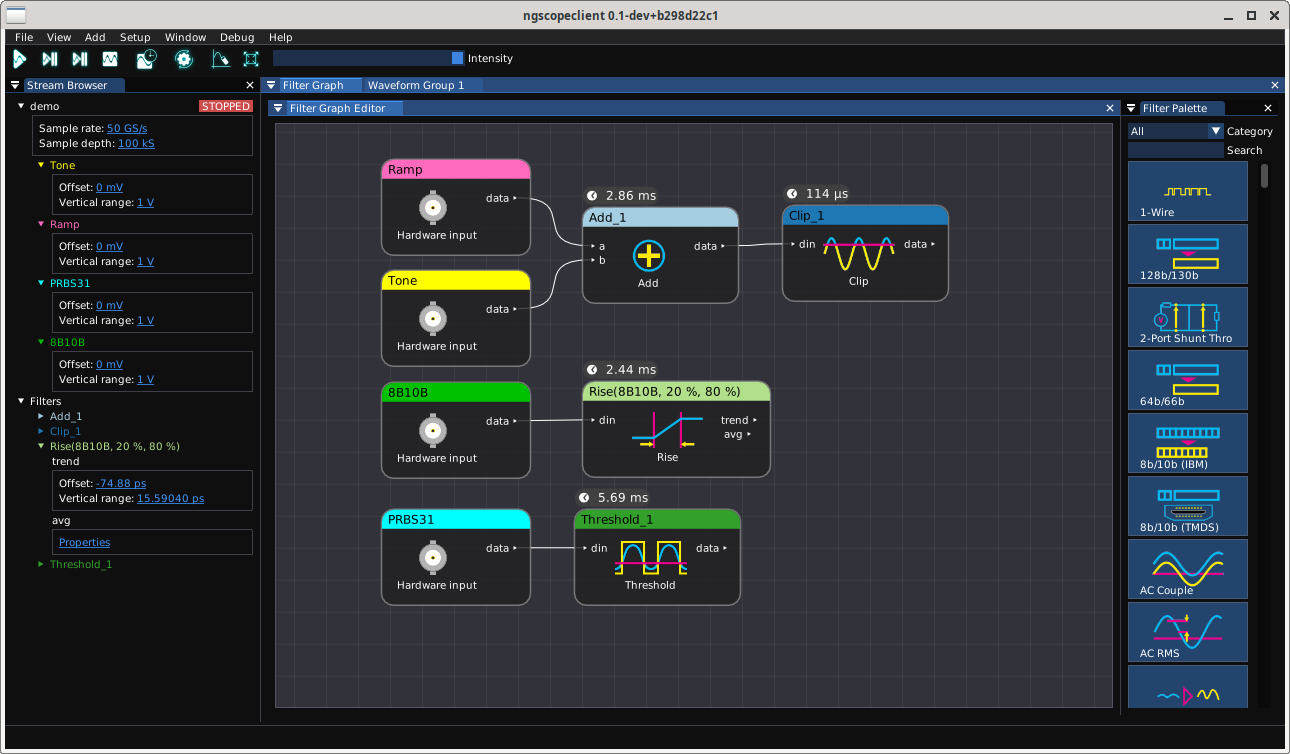
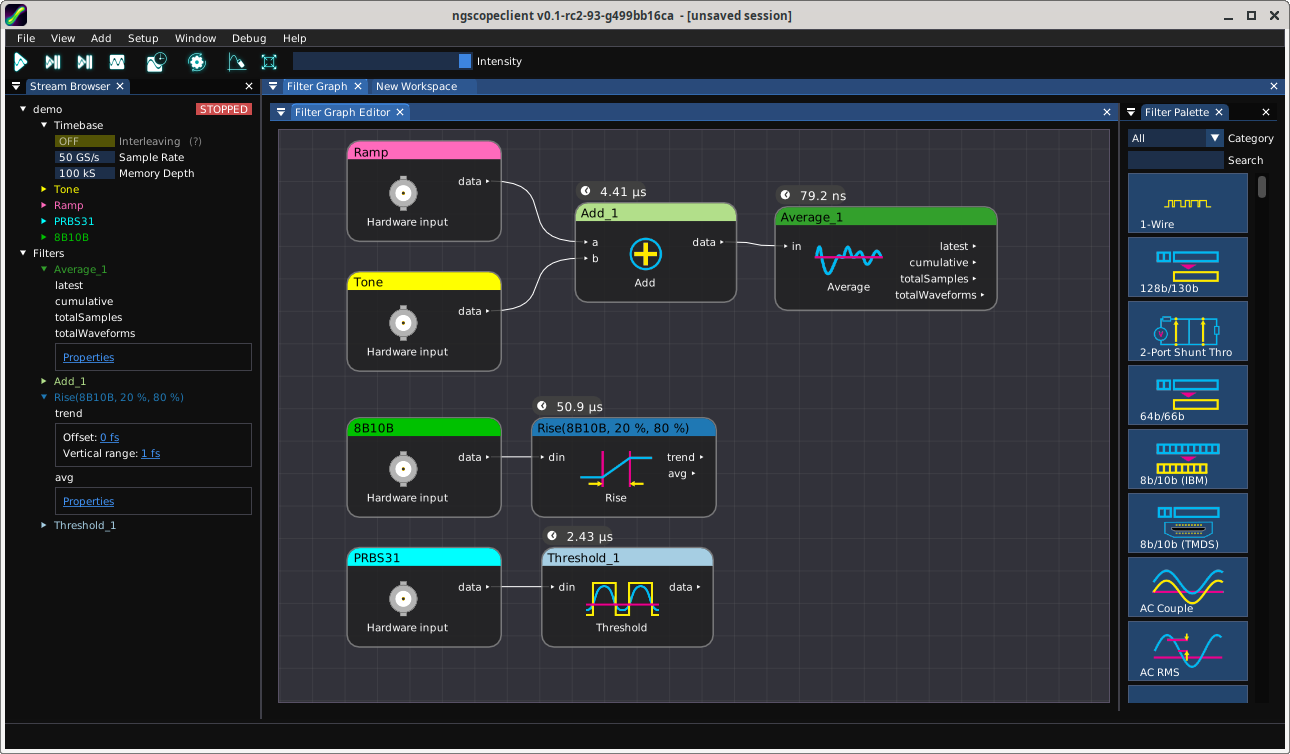
Updated stream browser and history sections

Changed region(s): [[0.0, 0.0, 0.9922, 0.9456], [0.3411, 0.0, 0.6202, 0.0305]]

diff --git a/section-streambrowser.tex b/section-streambrowser.tex
@@ -3,4 +3,41 @@
 
 \section{Introduction}
 
-The stream browser
+The stream browser is the primary navigation pane for quick access to instrument settings and channels. By default in a
+new ngscopeclient session it is docked to the left side of the window but it can be repositioned as needed.
+
+\begin{figure}[H]
+\centering
+\includegraphics[width=7cm]{ng-images/streambrowser.png}
+\caption{Example configuration of the stream browser}
+\label{streambrowser}
+\end{figure}
+
+NOTE: The stream browser is one of the more recent additions to ngscopeclient and is undergoing rapid development. Some
+changes to appearance and interaction metaphors should be expected in upcoming versions as we unify the user interface
+to be more consistent for all types of instrument.
+
+\section{Filters}
+
+The "filters" node contains a list of all filter graph blocks active in the current session. Expanding the node for a
+given filter will show a list of output streams.
+
+\section{Instruments}
+
+The node for each instrument contains a list of all channels on the instrument, whether enabled or not. Depending on
+the type of instrument, additional nodes with commonly used settings such as timebase configuration may be available.
+
+Color coded ``badges" are displayed in the right margin next to channels or instruments in some cases, displaying
+context-dependent information such as trigger state, power supply or signal generator on/off status, etc. These badges
+are clickable to change the relevant setting.
+
+\section{Adding streams}
+
+Instrument channels, filters, and streams can be dragged from the browser to other parts of ngscopeclient in order to
+visualize or interact with data from them. For example:
+
+\begin{itemize}
+\item Drag a scalar stream to the measurements window to display its real-time value
+\item Drag a currently-inactive channel to the filter graph view to add a node for the channel so it can be used
+\item Drag a stream to a waveform area to display it in that plot
+\end{itemize}

diff --git a/section-history.tex b/section-history.tex
@@ -16,6 +16,18 @@ waveform data for analysis.
 \label{historyview}
 \end{figure}
 
+Hovering the mouse over a row in the history view (Fig. \ref{history-tooltip}) displays a tooltip with the full date
+and time of the acquisition, as well as some information about which instruments and channels had data in the capture
+(if some channels were enabled or disabled during the lab session, the set of active channels may have changed
+throughout history).
+
+\begin{figure}[H]
+\centering
+\includegraphics[width=7cm]{ng-images/history-tooltip.png}
+\caption{Tooltip on waveform history entry}
+\label{history-tooltip}
+\end{figure}
+
 The history depth defaults to 10 waveforms, but can be set arbitrarily within the limits of available RAM. All history
 must fit in system RAM in the current software version; spilling to disk is planned for the future
 (\issue{scopehal-apps}{311}). Older waveforms beyond the history limit are deleted automatically as new waveforms are
